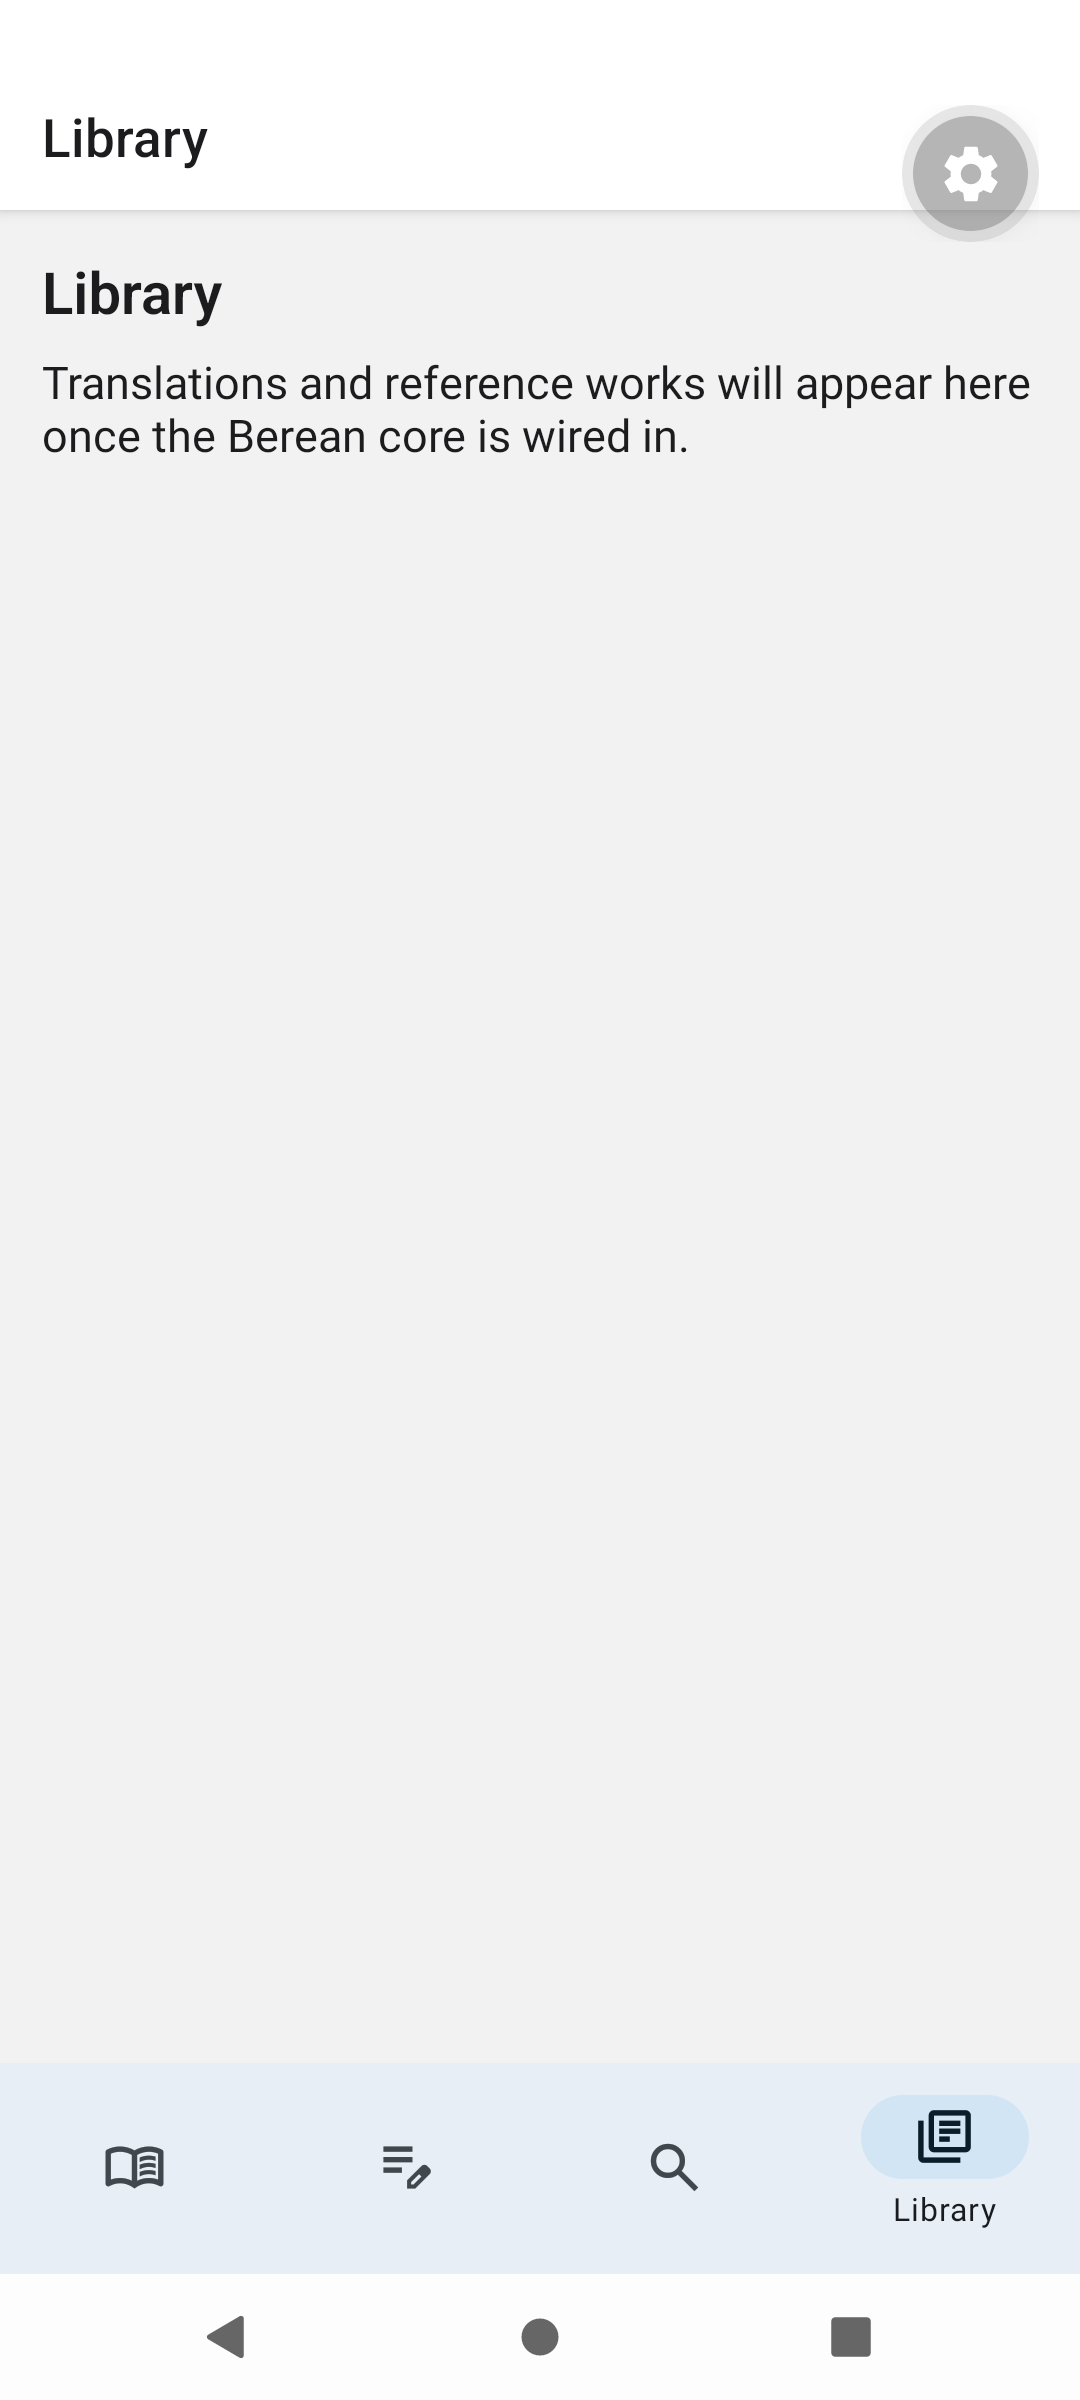
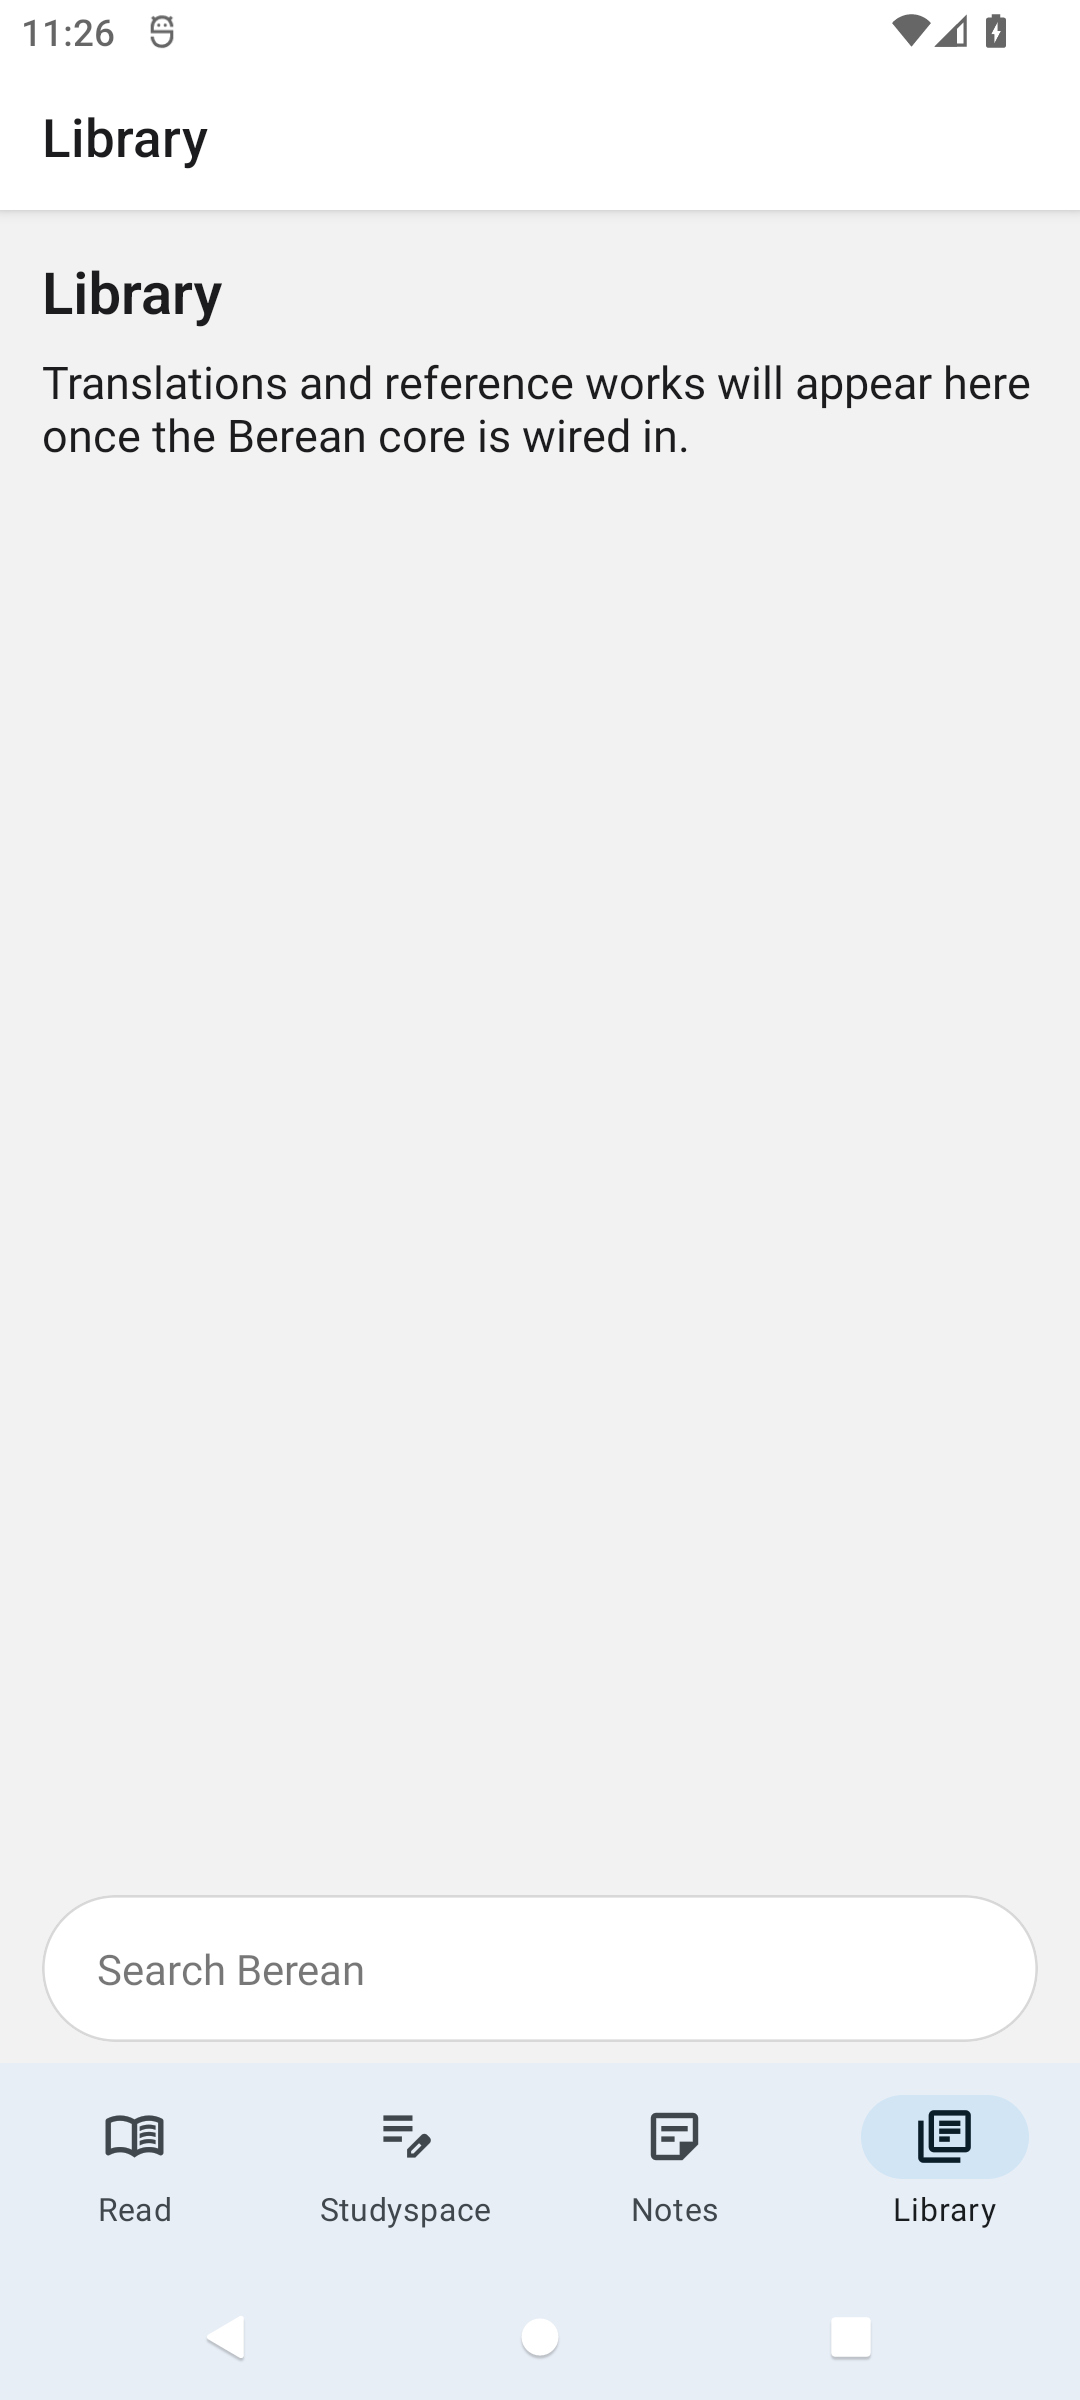
Mobile: fix Android system bars, tab labels; Notes tab + docked search
- Status bar: StatusBar style="auto" so icons are dark in light mode and
  light in dark mode.
- Navigation bar: add expo-navigation-bar (SDK 58 config plugin with
  enforceContrast: false) and <NavigationBar style="auto" />, so the app
  draws edge-to-edge behind a transparent system navigation bar instead of
  the grey contrast scrim. Tab content keeps the bottom inset via NativeTabs.
- Tabs: labelVisibilityMode="labeled" so all four tabs show labels.
- Per design guide v3, tabs are Read, Studyspace, Notes, Library. Search is no
  longer a tab: tab screens get a plain docked search bar above the bottom
  nav (Android) that opens a placeholder /search modal.
- Replace proof screenshots (berean31, API 31, pixel_7).

diff --git a/apps/mobile/src/app/_layout.tsx b/apps/mobile/src/app/_layout.tsx
@@ -1,5 +1,5 @@
-import { DarkTheme, DefaultTheme, ThemeProvider } from 'expo-router';
-import { NativeTabs } from 'expo-router/native-tabs';
+import { DarkTheme, DefaultTheme, Stack, ThemeProvider } from 'expo-router';
+import { NavigationBar } from 'expo-navigation-bar';
 import { StatusBar } from 'expo-status-bar';
 import { StyleSheet, useColorScheme } from 'react-native';
 import { GestureHandlerRootView } from 'react-native-gesture-handler';
@@ -9,31 +9,15 @@ export default function RootLayout() {
   return (
     <GestureHandlerRootView style={styles.root}>
       <ThemeProvider value={colorScheme === 'dark' ? DarkTheme : DefaultTheme}>
-        <NativeTabs>
-          <NativeTabs.Trigger name="(read)">
-            <NativeTabs.Trigger.Label>Read</NativeTabs.Trigger.Label>
-            <NativeTabs.Trigger.Icon sf={{ default: 'book', selected: 'book.fill' }} md="menu_book" />
-          </NativeTabs.Trigger>
-          <NativeTabs.Trigger name="studyspace">
-            <NativeTabs.Trigger.Label>Studyspace</NativeTabs.Trigger.Label>
-            <NativeTabs.Trigger.Icon
-              sf="square.and.pencil"
-              md="edit_note"
-            />
-          </NativeTabs.Trigger>
-          <NativeTabs.Trigger name="search">
-            <NativeTabs.Trigger.Label>Search</NativeTabs.Trigger.Label>
-            <NativeTabs.Trigger.Icon sf="magnifyingglass" md="search" />
-          </NativeTabs.Trigger>
-          <NativeTabs.Trigger name="library">
-            <NativeTabs.Trigger.Label>Library</NativeTabs.Trigger.Label>
-            <NativeTabs.Trigger.Icon
-              sf={{ default: 'books.vertical', selected: 'books.vertical.fill' }}
-              md="library_books"
-            />
-          </NativeTabs.Trigger>
-        </NativeTabs>
+        <Stack>
+          <Stack.Screen name="(tabs)" options={{ headerShown: false }} />
+          <Stack.Screen
+            name="search"
+            options={{ presentation: 'modal', title: 'Search', headerShown: true }}
+          />
+        </Stack>
         <StatusBar style="auto" />
+        <NavigationBar style="auto" />
       </ThemeProvider>
     </GestureHandlerRootView>
   );

diff --git a/apps/mobile/src/components/placeholder.tsx b/apps/mobile/src/components/placeholder.tsx
@@ -1,24 +1,35 @@
 import { useTheme } from 'expo-router';
 import { ScrollView, StyleSheet, Text } from 'react-native';
 
+import { DockedSearchBar } from '@/components/docked-search-bar';
+
 type PlaceholderProps = {
   title: string;
   body: string;
+  showSearchBar?: boolean;
 };
 
-export function Placeholder({ title, body }: PlaceholderProps) {
+export function Placeholder({ title, body, showSearchBar = false }: PlaceholderProps) {
   const { colors } = useTheme();
   return (
-    <ScrollView contentInsetAdjustmentBehavior="automatic" contentContainerStyle={styles.content}>
-      <Text accessibilityRole="header" style={[styles.title, { color: colors.text }]}>
-        {title}
-      </Text>
-      <Text style={[styles.body, { color: colors.text }]}>{body}</Text>
-    </ScrollView>
+    <>
+      <ScrollView
+        style={styles.scroll}
+        contentInsetAdjustmentBehavior="automatic"
+        contentContainerStyle={styles.content}
+      >
+        <Text accessibilityRole="header" style={[styles.title, { color: colors.text }]}>
+          {title}
+        </Text>
+        <Text style={[styles.body, { color: colors.text }]}>{body}</Text>
+      </ScrollView>
+      {showSearchBar && <DockedSearchBar />}
+    </>
   );
 }
 
 const styles = StyleSheet.create({
+  scroll: { flex: 1 },
   content: { padding: 16, gap: 8 },
   title: { fontSize: 22, fontWeight: '600' },
   body: { fontSize: 17 },

diff --git a/apps/mobile/src/app/(tabs)/_layout.tsx b/apps/mobile/src/app/(tabs)/_layout.tsx
@@ -1,0 +1,30 @@
+import { NativeTabs } from 'expo-router/native-tabs';
+
+export default function TabsLayout() {
+  return (
+    <NativeTabs labelVisibilityMode="labeled">
+      <NativeTabs.Trigger name="(read)">
+        <NativeTabs.Trigger.Label>Read</NativeTabs.Trigger.Label>
+        <NativeTabs.Trigger.Icon sf={{ default: 'book', selected: 'book.fill' }} md="menu_book" />
+      </NativeTabs.Trigger>
+      <NativeTabs.Trigger name="studyspace">
+        <NativeTabs.Trigger.Label>Studyspace</NativeTabs.Trigger.Label>
+        <NativeTabs.Trigger.Icon
+          sf="square.and.pencil"
+          md="edit_note"
+        />
+      </NativeTabs.Trigger>
+      <NativeTabs.Trigger name="notes">
+        <NativeTabs.Trigger.Label>Notes</NativeTabs.Trigger.Label>
+        <NativeTabs.Trigger.Icon sf="note.text" md="sticky_note_2" />
+      </NativeTabs.Trigger>
+      <NativeTabs.Trigger name="library">
+        <NativeTabs.Trigger.Label>Library</NativeTabs.Trigger.Label>
+        <NativeTabs.Trigger.Icon
+          sf={{ default: 'books.vertical', selected: 'books.vertical.fill' }}
+          md="library_books"
+        />
+      </NativeTabs.Trigger>
+    </NativeTabs>
+  );
+}

diff --git a/apps/mobile/src/components/docked-search-bar.tsx b/apps/mobile/src/components/docked-search-bar.tsx
@@ -1,0 +1,34 @@
+import { router, useTheme } from 'expo-router';
+import { Platform, Pressable, StyleSheet, Text } from 'react-native';
+
+// Android only for now; the iOS search tab comes in a later PR. The native tab
+// bar already reserves the bottom system inset, so no safe-area padding here.
+export function DockedSearchBar() {
+  const { colors } = useTheme();
+  if (Platform.OS !== 'android') {
+    return null;
+  }
+  return (
+    <Pressable
+      accessibilityRole="button"
+      accessibilityLabel="Search"
+      onPress={() => router.push('/search')}
+      style={[styles.bar, { backgroundColor: colors.card, borderColor: colors.border }]}
+    >
+      <Text style={[styles.label, { color: colors.text }]}>Search Berean</Text>
+    </Pressable>
+  );
+}
+
+const styles = StyleSheet.create({
+  bar: {
+    height: 56,
+    borderRadius: 28,
+    borderWidth: 1,
+    marginHorizontal: 16,
+    marginVertical: 8,
+    paddingHorizontal: 20,
+    justifyContent: 'center',
+  },
+  label: { fontSize: 16, opacity: 0.6 },
+});

diff --git a/apps/mobile/src/app/(tabs)/notes/_layout.tsx b/apps/mobile/src/app/(tabs)/notes/_layout.tsx
@@ -1,9 +1,9 @@
 import { Stack } from 'expo-router';
 
-export default function SearchLayout() {
+export default function NotesLayout() {
   return (
     <Stack screenOptions={{ headerLargeTitleEnabled: true }}>
-      <Stack.Screen name="index" options={{ title: 'Search' }} />
+      <Stack.Screen name="index" options={{ title: 'Notes' }} />
     </Stack>
   );
 }

diff --git a/apps/mobile/src/app/search.tsx b/apps/mobile/src/app/search.tsx
@@ -4,7 +4,7 @@ export default function SearchScreen() {
   return (
     <Placeholder
       title="Search"
-      body="Search across Scripture and your studies once the Berean core is wired in."
+      body="Search across Scripture and your studies will appear here once the Berean core is wired in."
     />
   );
 }

diff --git a/apps/mobile/src/app/(tabs)/notes/index.tsx b/apps/mobile/src/app/(tabs)/notes/index.tsx
@@ -1,0 +1,11 @@
+import { Placeholder } from '@/components/placeholder';
+
+export default function NotesScreen() {
+  return (
+    <Placeholder
+      title="Notes"
+      body="Your notes will appear here once the Berean core is wired in."
+      showSearchBar
+    />
+  );
+}

diff --git a/apps/mobile/src/app/(tabs)/studyspace/index.tsx b/apps/mobile/src/app/(tabs)/studyspace/index.tsx
@@ -5,6 +5,7 @@ export default function StudyspaceScreen() {
     <Placeholder
       title="Your studies"
       body="Notes, outlines, and research will live here once the Berean core is wired in."
+      showSearchBar
     />
   );
 }

diff --git a/apps/mobile/src/app/(tabs)/library/index.tsx b/apps/mobile/src/app/(tabs)/library/index.tsx
@@ -5,6 +5,7 @@ export default function LibraryScreen() {
     <Placeholder
       title="Library"
       body="Translations and reference works will appear here once the Berean core is wired in."
+      showSearchBar
     />
   );
 }

diff --git a/apps/mobile/src/app/(tabs)/(read)/index.tsx b/apps/mobile/src/app/(tabs)/(read)/index.tsx
@@ -5,6 +5,7 @@ export default function ReadScreen() {
     <Placeholder
       title="Scripture"
       body="Chapters will appear here once the Berean core is wired in."
+      showSearchBar
     />
   );
 }
